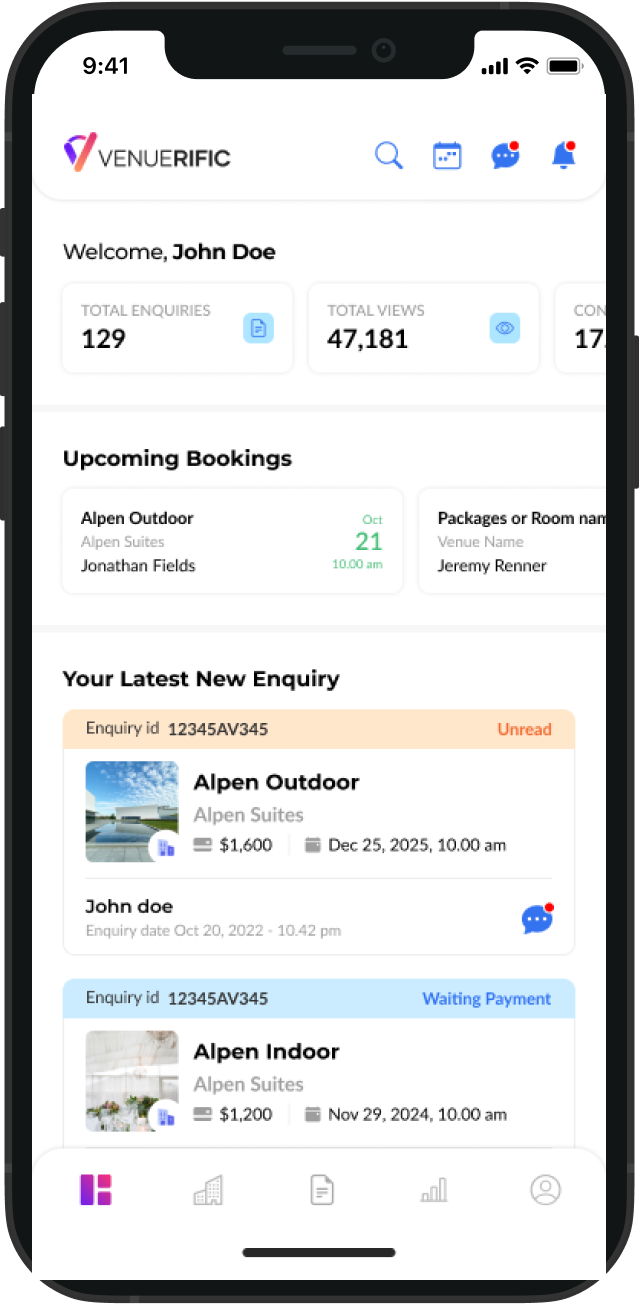
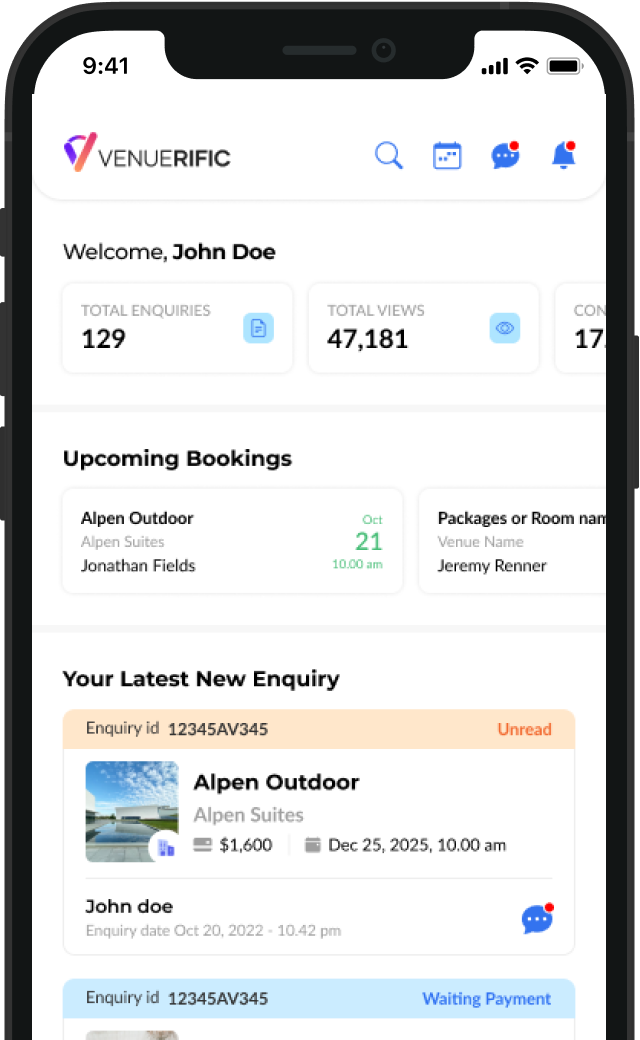
[HeroSection] UI done

diff --git a/src/app/components/hero-section/index.tsx b/src/app/components/hero-section/index.tsx
@@ -1,0 +1,38 @@
+import Image from 'next/image'
+import React from 'react'
+
+const HeroSection = () => {
+    return (
+        <section className='mt-16 relative'>
+            <div className='container lg:h-[672px] flex gap-y-16 flex-col lg:flex-row max-w-[1280px] mx-auto'>
+                <div className='flex-1 flex justify-center items-center w-[80%] mx-auto lg:w-full lg:items-start flex-col gap-6'>
+                    <h1 className='text-[38px] lg:text-[52px] text-center lg:text-left font-semibold lg:pr-24 leading-[52px] lg:leading-[72px]'>
+                        Smart Ways to Manage Your Venues
+                    </h1>
+
+                    <p className='text-secondary text-center text-lg lg:text-xl lg:text-left lg:pr-60'>
+                        Take control for every enquiry that came to your venues on your mobile
+                    </p>
+
+                    <div className='flex justify-center gap-3 mt-6'>
+                        <Image src={'/assets/app_store.svg'} alt='Download App from App Store' width={132} height={44} />
+                        <Image src={'/assets/play_store.svg'} alt='Download App from Play Store' width={148} height={44} />
+
+                    </div>
+                </div>
+                <Image className='absolute hidden lg:block bottom-0 lg:right-0' src={'/assets/hero_person.png'} alt='Venuerific User' width={650} height={612} />
+
+                <div className='lg:hidden left-0 right-0 bg-[#DFF4FF] absolute bottom-0 h-[33.5%]'>
+
+                </div>
+                <div className='flex-1 relative'>
+                    <Image quality={100} className='absolute hidden lg:block z-10 bottom-0 left-[0.65rem]' src={'/assets/hero_mockup.png'} alt='Venuerific App Mock Up' width={320} height={520} />
+
+                    <Image quality={100} className='lg:hidden w-[284px] mx-auto h-[356px] object-cover object-top z-10 bottom-0 left-8' src={'/assets/hero_mockup.png'} alt='Venuerific App Mock Up' width={284} height={356} />
+                </div>
+            </div>
+        </section>
+    )
+}
+
+export default HeroSection

diff --git a/src/app/components/hero-section/HeroSection.stories.ts b/src/app/components/hero-section/HeroSection.stories.ts
@@ -1,0 +1,13 @@
+import type { Meta, StoryObj } from "@storybook/react";
+import HeroSection from ".";
+
+const meta: Meta<typeof HeroSection> = {
+    title: "LandingPage/HeroSection",
+    component: HeroSection,
+  
+  };
+  
+  export default meta;
+  type Story = StoryObj<typeof meta>;
+  
+  export const Default: Story = {};

diff --git a/src/app/layout.tsx b/src/app/layout.tsx
@@ -19,7 +19,7 @@ export default function RootLayout({
 }>) {
   return (
     <html lang="en">
-      <body className={inter.className}>
+      <body className={`${inter.className} overflow-x-hidden`}>
         <Navigation/>
         {children}
       </body>

diff --git a/src/app/page.tsx b/src/app/page.tsx
@@ -1,7 +1,9 @@
+import HeroSection from "./components/hero-section";
 
 export default function Home() {
   return (
-    <main className="">
+    <main className="text-dark">
+      <HeroSection/>
     </main>
   );
 }
